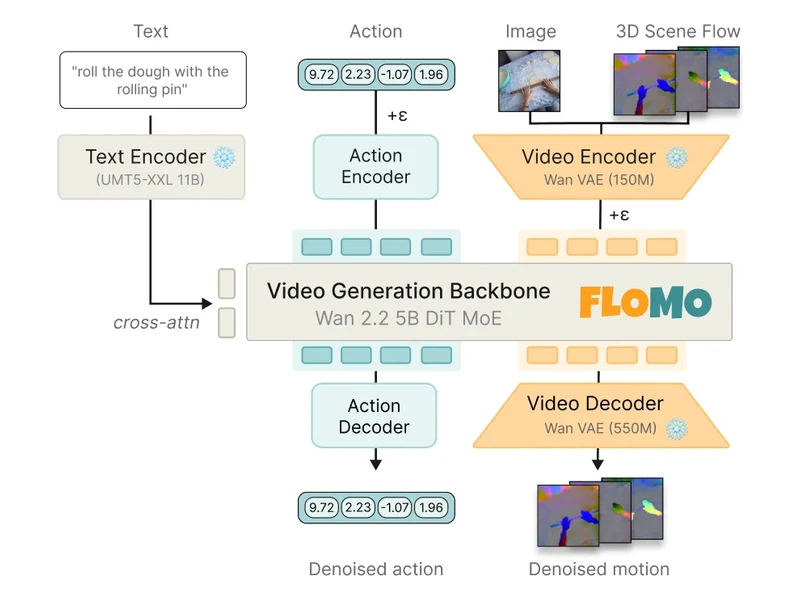
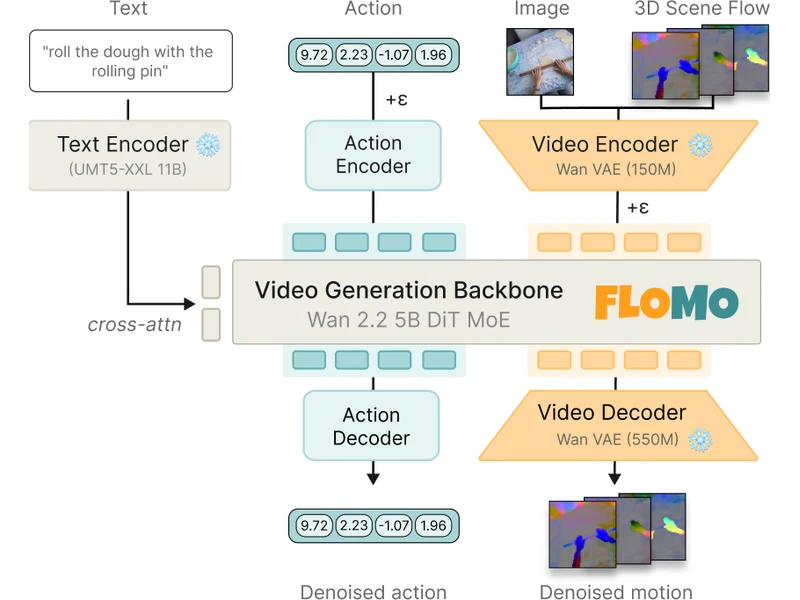
Remove paper blurbs and projects; tighter thumbnails

Changed region(s): [[0.0312, 0.0, 0.9688, 1.0]]

diff --git a/index.html b/index.html
@@ -16,7 +16,6 @@
       <nav>
         <a href="#about" class="fancy-link">about</a>
         <a href="#publications" class="fancy-link">publications</a>
-        <a href="#projects" class="fancy-link">projects</a>
         <a href="blog.html" class="fancy-link">blog</a>
         <a href="Shitij_Govil_CV.pdf" class="fancy-link">cv</a>
       </nav>
@@ -105,9 +104,6 @@
             <p class="paper-authors">
               <b>Shitij Govil*</b>, Jeremy A. Collins*, Namra Patel*, Ayush Agarwal*, Animesh Garg
             </p>
-            <p>
-              A 5B world-action model that predicts 3D scene flow and robot actions, using action-free human video to improve sample efficiency and generalization to unseen objects, motions, and tasks.
-            </p>
             <p class="paper-note">* Equal contribution</p>
           </div>
         </div>
@@ -126,9 +122,6 @@
             </p>
             <p class="paper-authors">
               Siqi Miao*, <b>Shitij Govil*</b>, Jack P. Rodgers, Mia Liu, Javier Duarte, Shih-Chieh Hsu, Yuan-Tang Chou, Pan Li
-            </p>
-            <p>
-              An end-to-end point transformer that reconstructs particle tracks without graph construction, clustering, or filtering, reaching 98.6% tracking efficiency with approximately 15 ms inference per event.
             </p>
             <p class="paper-note">* Equal contribution</p>
           </div>
@@ -169,7 +162,6 @@
               <a href="https://arxiv.org/pdf/2503.01227" target="_blank" rel="noreferrer">[paper]</a>
             </p>
             <p class="paper-authors">Shuyi Jia, <b>Shitij Govil</b>, Manav Ramaprasad, Victor Fung</p>
-            <p>Pre-training GNNs for materials science using cheaply-computed structural fingerprints.</p>
           </div>
         </div>
 
@@ -187,55 +179,9 @@
               <a href="https://www.mdpi.com/2072-4292/14/23/6002" target="_blank" rel="noreferrer">[paper]</a>
             </p>
             <p class="paper-authors"><b>Shitij Govil</b>, Aidan J. Lee, Aiden C. MacQueen, Narcisa G. Pricope, Asami Minei, Cuixian Chen</p>
-            <p>
-              Developed a novel approach combining hyperspatial LiDAR and multispectral imaging data with gradient boosting methods to accurately identify and classify coastal wetlands.
-            </p>
           </div>
         </div>
       </section>
-
-      <section id="projects">
-        <h2>projects</h2>
-
-        <div class="research-item">
-          <div class="paper-image-container">
-            <img src="images/thumbs/mosaud.webp" alt="Efficient Skill-based Reinforcement Learning thumbnail">
-          </div>
-          <div class="paper-details">
-            <p class="paper-title">
-              <a href="papers/MoSAUD.pdf" target="_blank" rel="noreferrer">Efficient Skill-based Reinforcement Learning</a>
-            </p>
-            <p class="paper-publication">Course Project CS 8803 DRL</p>
-            <p class="paper-links">
-              <a href="https://github.com/aarontrinh02/mosaud" target="_blank" rel="noreferrer">[code]</a>
-              <a href="papers/MoSAUD.pdf" target="_blank" rel="noreferrer">[paper]</a>
-            </p>
-            <p>
-              A model-based RL framework that extracts reusable skills from rewardless offline data and reuses the data by relabeling with an optimistic reward estimator for efficient exploration through the learned dynamics model.
-            </p>
-          </div>
-        </div>
-
-        <div class="research-item">
-          <div class="paper-image-container">
-            <img src="images/thumbs/sae.webp" alt="Encoder-decoder cosine similarity across winner-take-all sparsity rates">
-          </div>
-          <div class="paper-details">
-            <p class="paper-title">
-              <a href="papers/WTASAEMI.pdf" target="_blank" rel="noreferrer">Winner-Take-All Sparse Autoencoders</a>
-            </p>
-            <p class="paper-publication">Course Project CS 7461 DL</p>
-            <p class="paper-links">
-              <a href="https://github.com/sgovil5/SAE" target="_blank" rel="noreferrer">[code]</a>
-              <a href="papers/WTASAEMI.pdf" target="_blank" rel="noreferrer">[paper]</a>
-            </p>
-            <p>
-              A winner-take-all sparsity mechanism for sparse autoencoders in the context of mechanistic interpretability. Investigates feature-wise sparsity constraints for SAEs to prevent dead features.
-            </p>
-          </div>
-        </div>
-      </section>
-
       <footer class="site-footer">
         <span>Based off <a href="https://adityark.xyz/" target="_blank" rel="noreferrer">my friend's website</a>.</span>
       </footer>

diff --git a/stylesheet.css b/stylesheet.css
@@ -34,10 +34,10 @@ h2 { font-size: 20px; font-weight: 700; margin: 0 0 10px; padding-bottom: 4px; b
 .contact-button svg { width: 16px; height: 16px; flex: none; }
 
 /* publication rows */
-.research-item { display: flex; gap: 20px; align-items: flex-start; padding: 10px 10px; margin: 0 -10px; border-radius: 6px; }
+.research-item { display: flex; gap: 20px; align-items: center; padding: 10px 10px; margin: 0 -10px; border-radius: 6px; }
 #publications .research-item:nth-of-type(1) { background: var(--hl); }
-.paper-image-container { flex: none; width: 180px; }
-.paper-image-container img { display: block; width: 180px; aspect-ratio: 4 / 3; object-fit: contain; background: #fff; border: 1px solid var(--rule); border-radius: 4px; }
+.paper-image-container { flex: none; width: 160px; }
+.paper-image-container img { display: block; width: 160px; aspect-ratio: 4 / 3; object-fit: contain; padding: 4px; background: #fff; border: 1px solid var(--rule); border-radius: 4px; }
 .paper-details { flex: 1; min-width: 0; font-size: 14.5px; }
 .paper-details p { margin: 0 0 3px; }
 .paper-details p:last-child { margin-bottom: 0; }
@@ -70,6 +70,6 @@ pre code { background: none; padding: 0; }
   .profile-pic { grid-column: 1; grid-row: 1; width: 150px; justify-self: center; margin-bottom: 12px; }
   .right-column { grid-row: 2; }
   .contact-links { grid-row: 3; }
-  .research-item { flex-direction: column; gap: 8px; }
+  .research-item { flex-direction: column; align-items: flex-start; gap: 8px; }
   .paper-image-container, .paper-image-container img { width: 100%; max-width: 360px; }
 }
